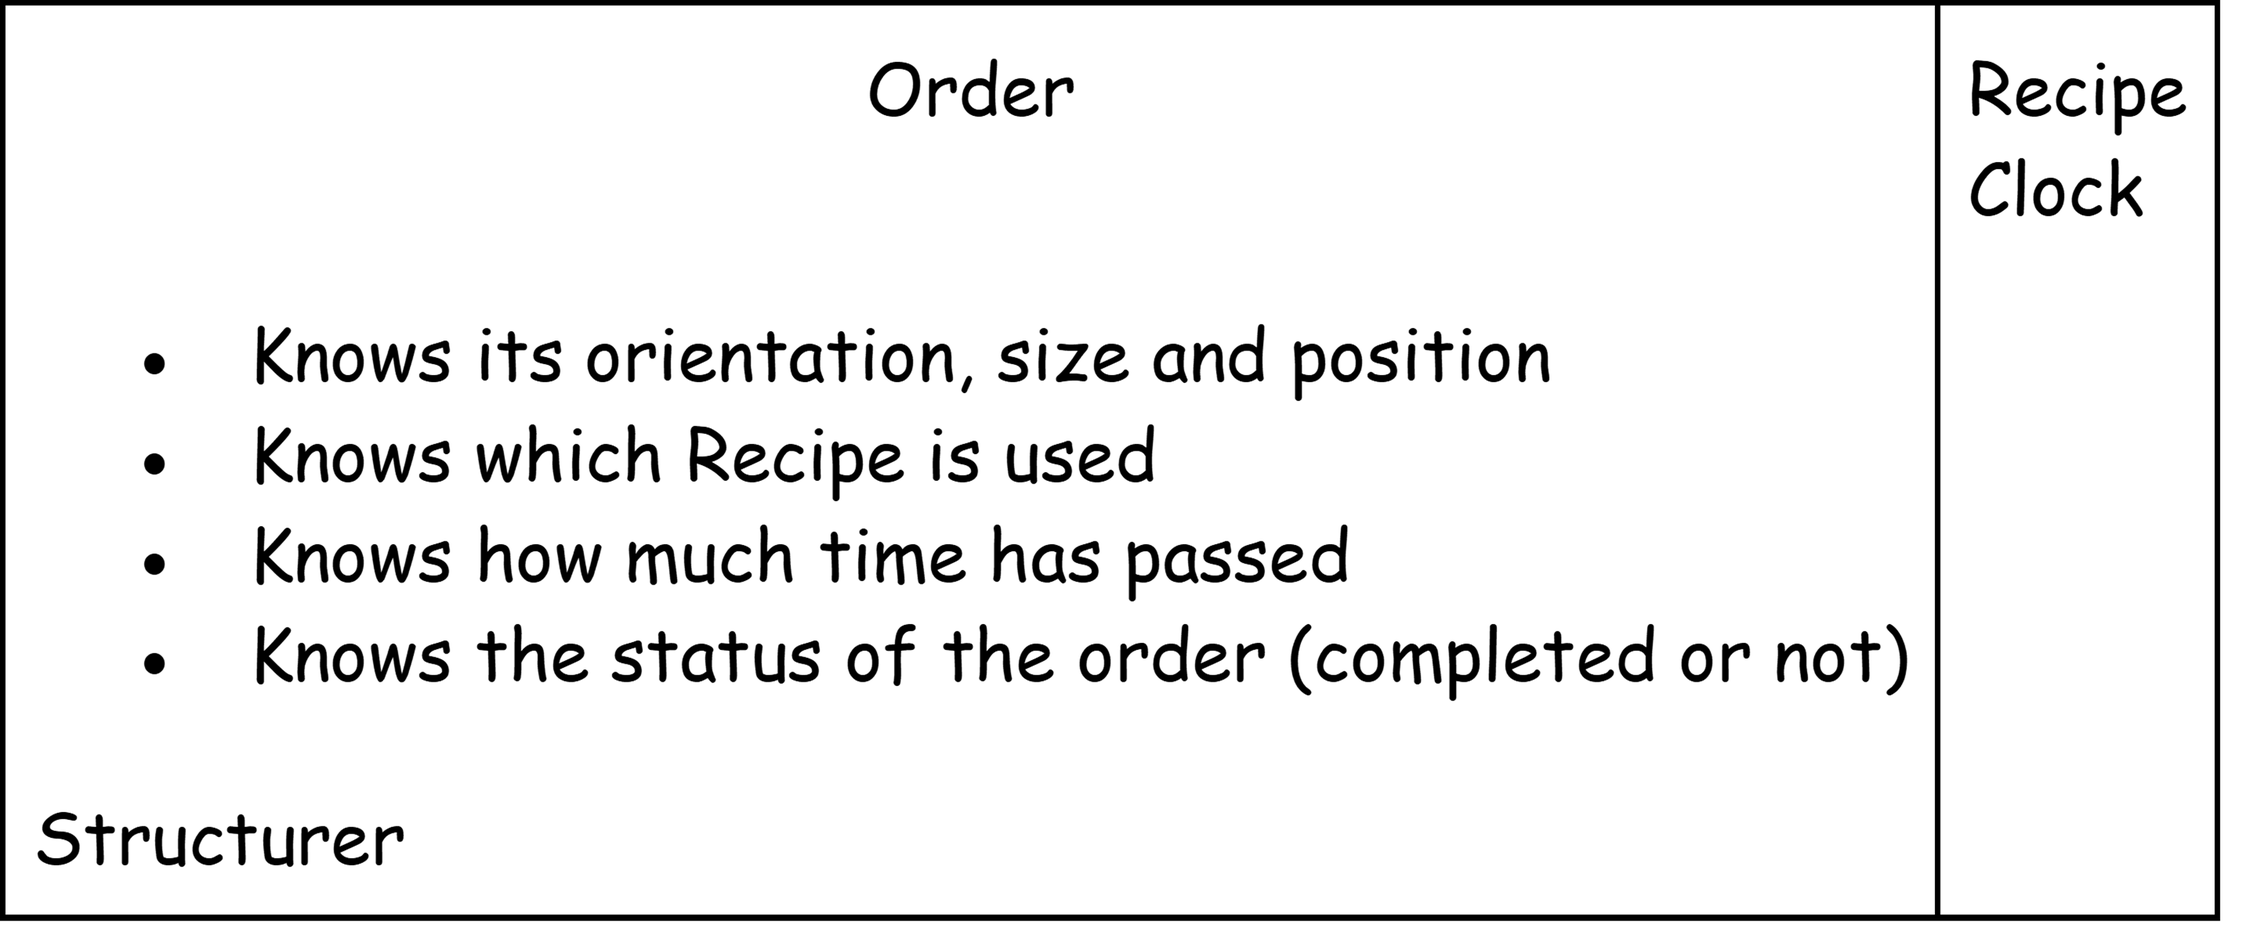
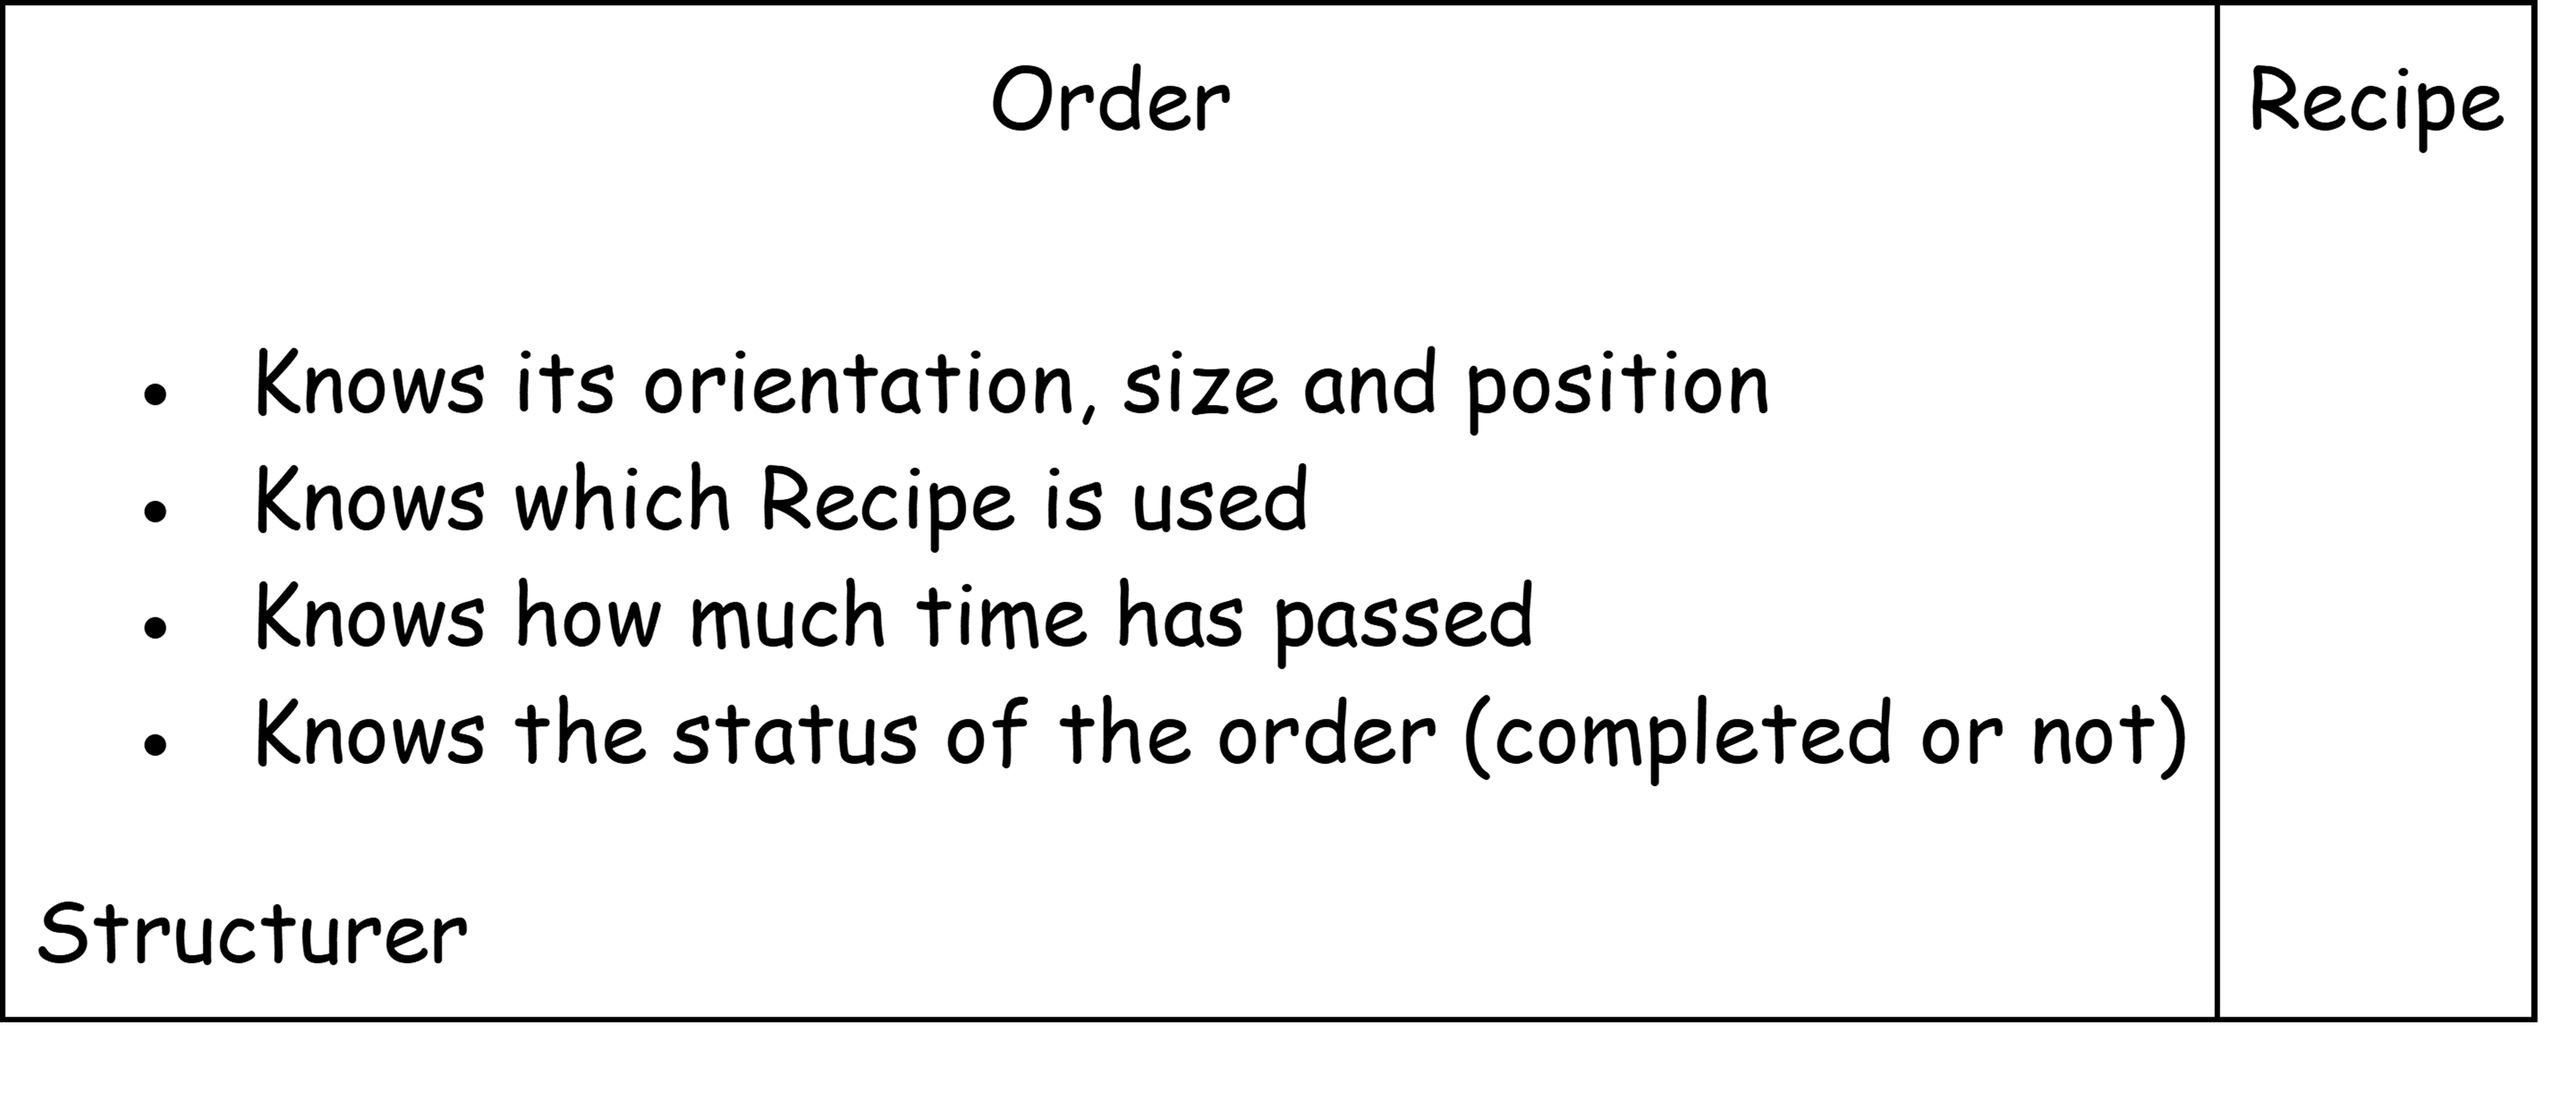
architecture diagrams

diff --git a/architecture.html b/architecture.html
@@ -57,8 +57,9 @@
               <h2 class="add-top-margin">CRC cards</h2>
                 <hr>
                 <p class="text">
-                  These are our first crc cards, we tried to cover the main components of the game. It was hard to understand how to
-                  group these cards as we did not follow the proper steps of RDD.
+                  These are our initial crc cards, we tried to cover the main components of the game. 
+                  The idea of grouping was also confusing to us but after following the RDD 
+                  steps we realised we were missing a 'Clock' card and we mananged to group the cards. 
                 </p>
                 <div class ="middle">
                     <div class = "row">
@@ -79,9 +80,6 @@
 
                     <div class = "row">
                         <div class = "column">
-                            <img src="img/crc4.png" alt="crc" class="middle">
-                        </div>
-                        <div class = "column">
                             <img src="img/crc5.png" alt="crc" class="middle">
                         </div>
                
@@ -92,6 +90,12 @@
                             <img src="img/crc7.png" alt="crc" class="middle">
                         </div>
                     </div>
+                </div>
+                <p class="text">
+                These are our final crc cards grouped together. 
+                </p>
+                <br>
+                <img src="img/crcgroup.png" alt="crc" width = '60%' class = 'middle'> 
                 </div>
             </div>
 
@@ -107,6 +111,12 @@
                       We have to make sure that our ideas can actually be fulfilled in code and be logical for the user.
                     </p>
                     <img src="img/classdiagram.png" alt="class diagram" class="center">
+                    <p class="text">
+                      After there was progress with the implementation we realised our classes weren't as logical as we thought.
+                      The notes explain our thoughts for the new diagram. These ideas mostly came from discovering libGDX's capabilities
+                      and from stripping down the atrributes in the classes.
+                    </p>
+                    <img src="img/classdiagram1.png" alt="class diagram" width="100%">
                     <br>
                     <br>
                 </div>
@@ -116,7 +126,7 @@
               <div class="flex-item flex-column">
                 <h2 class="add-top-margin">State Diagrams</h2>
                   <hr>
-                  <img src="img/state.png" alt="class diagram" width = "90%">
+                  <img src="img/state.png" alt="state diagram" width = "100%">
               </div>
             </div>
   
